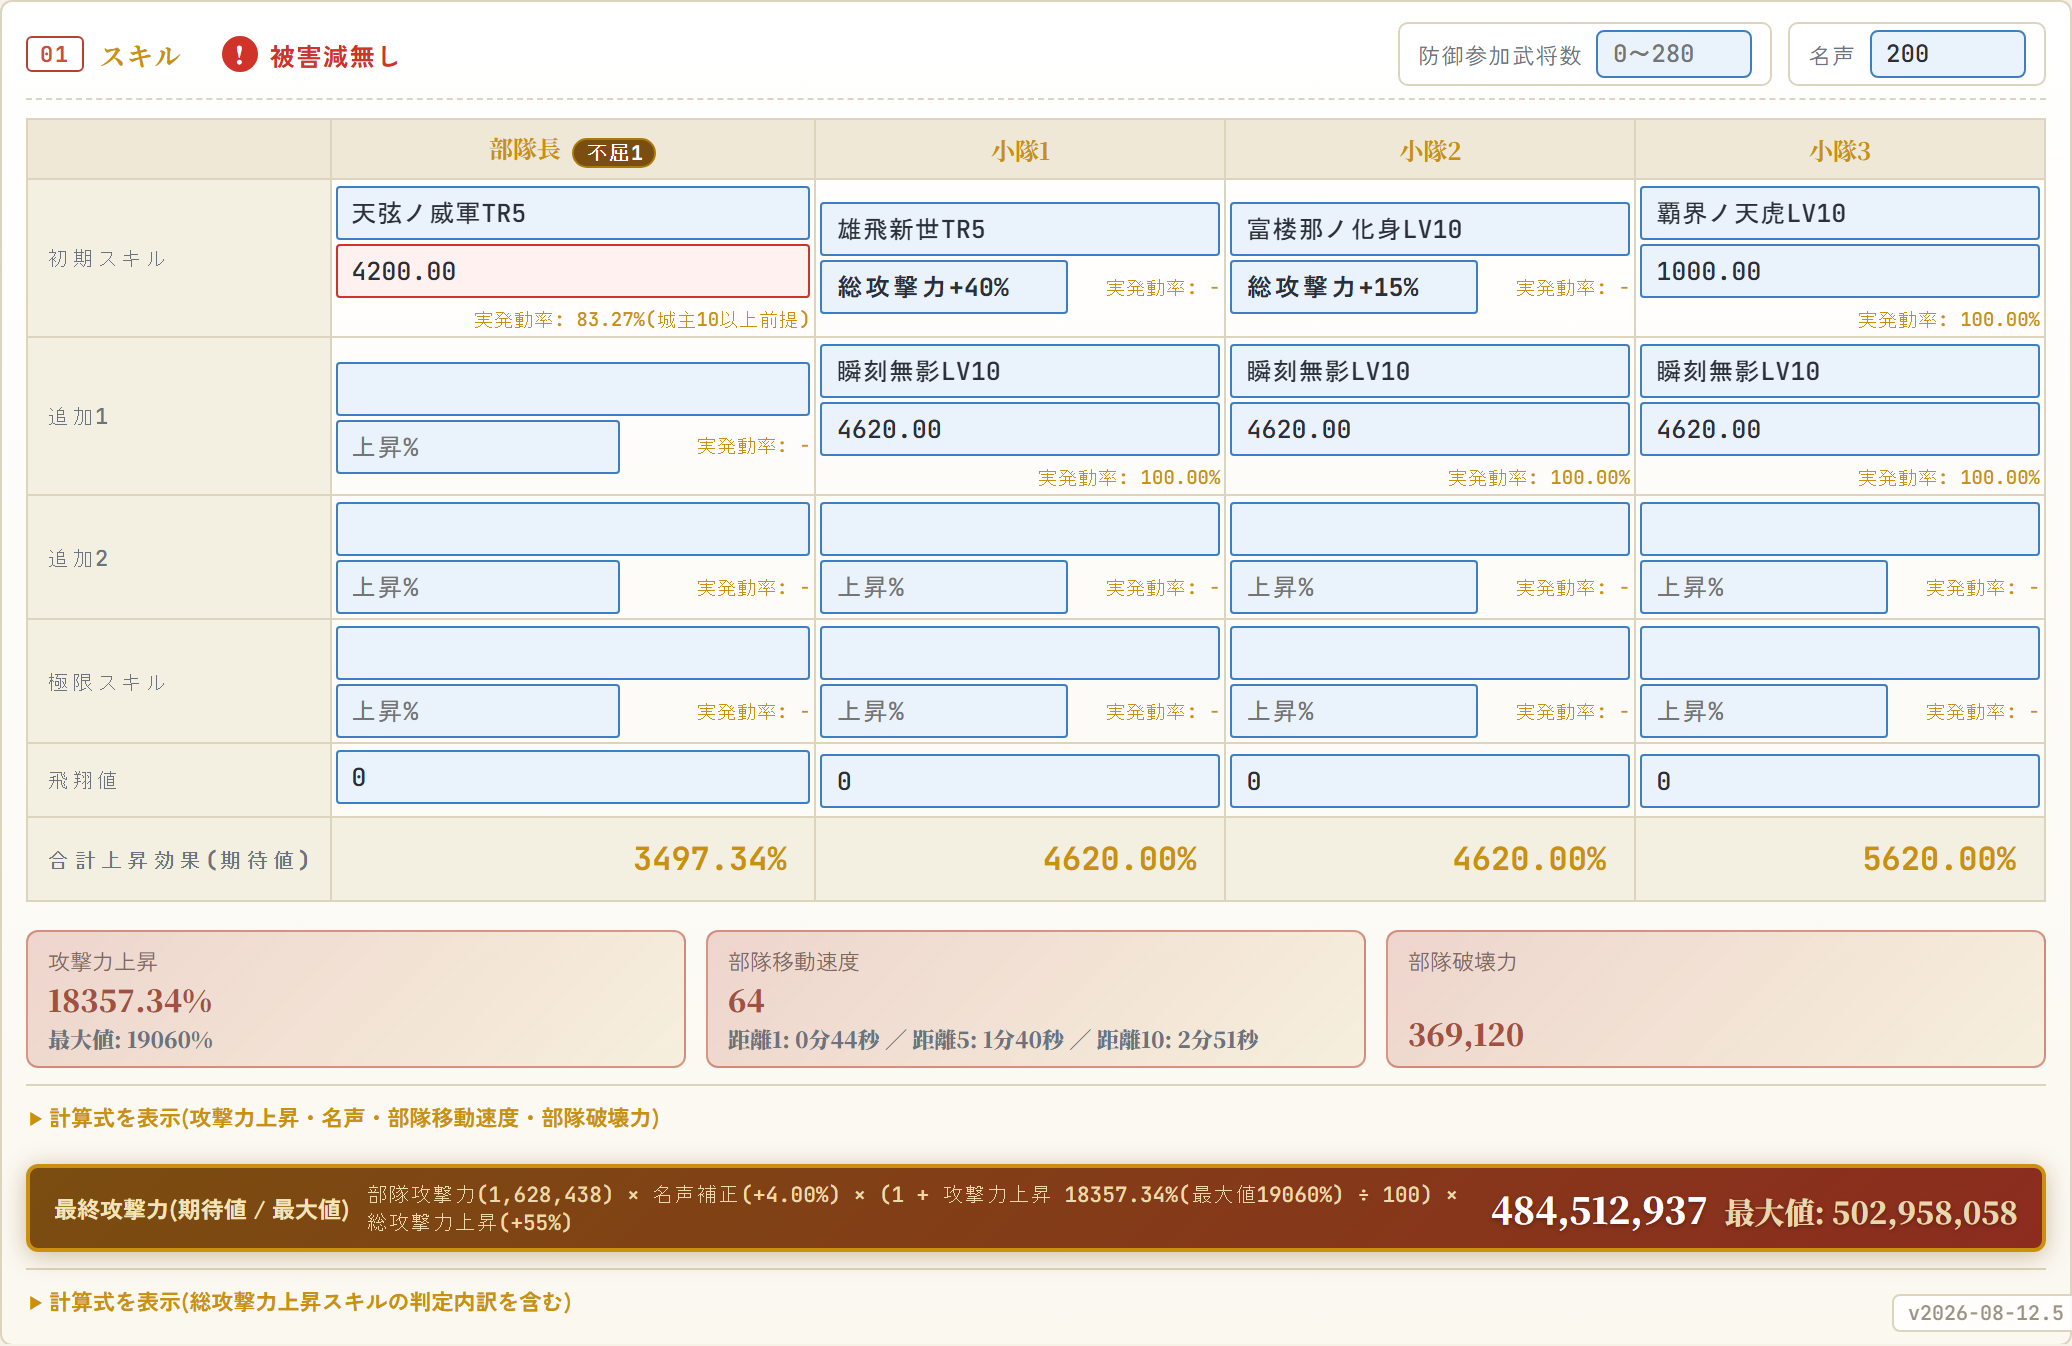
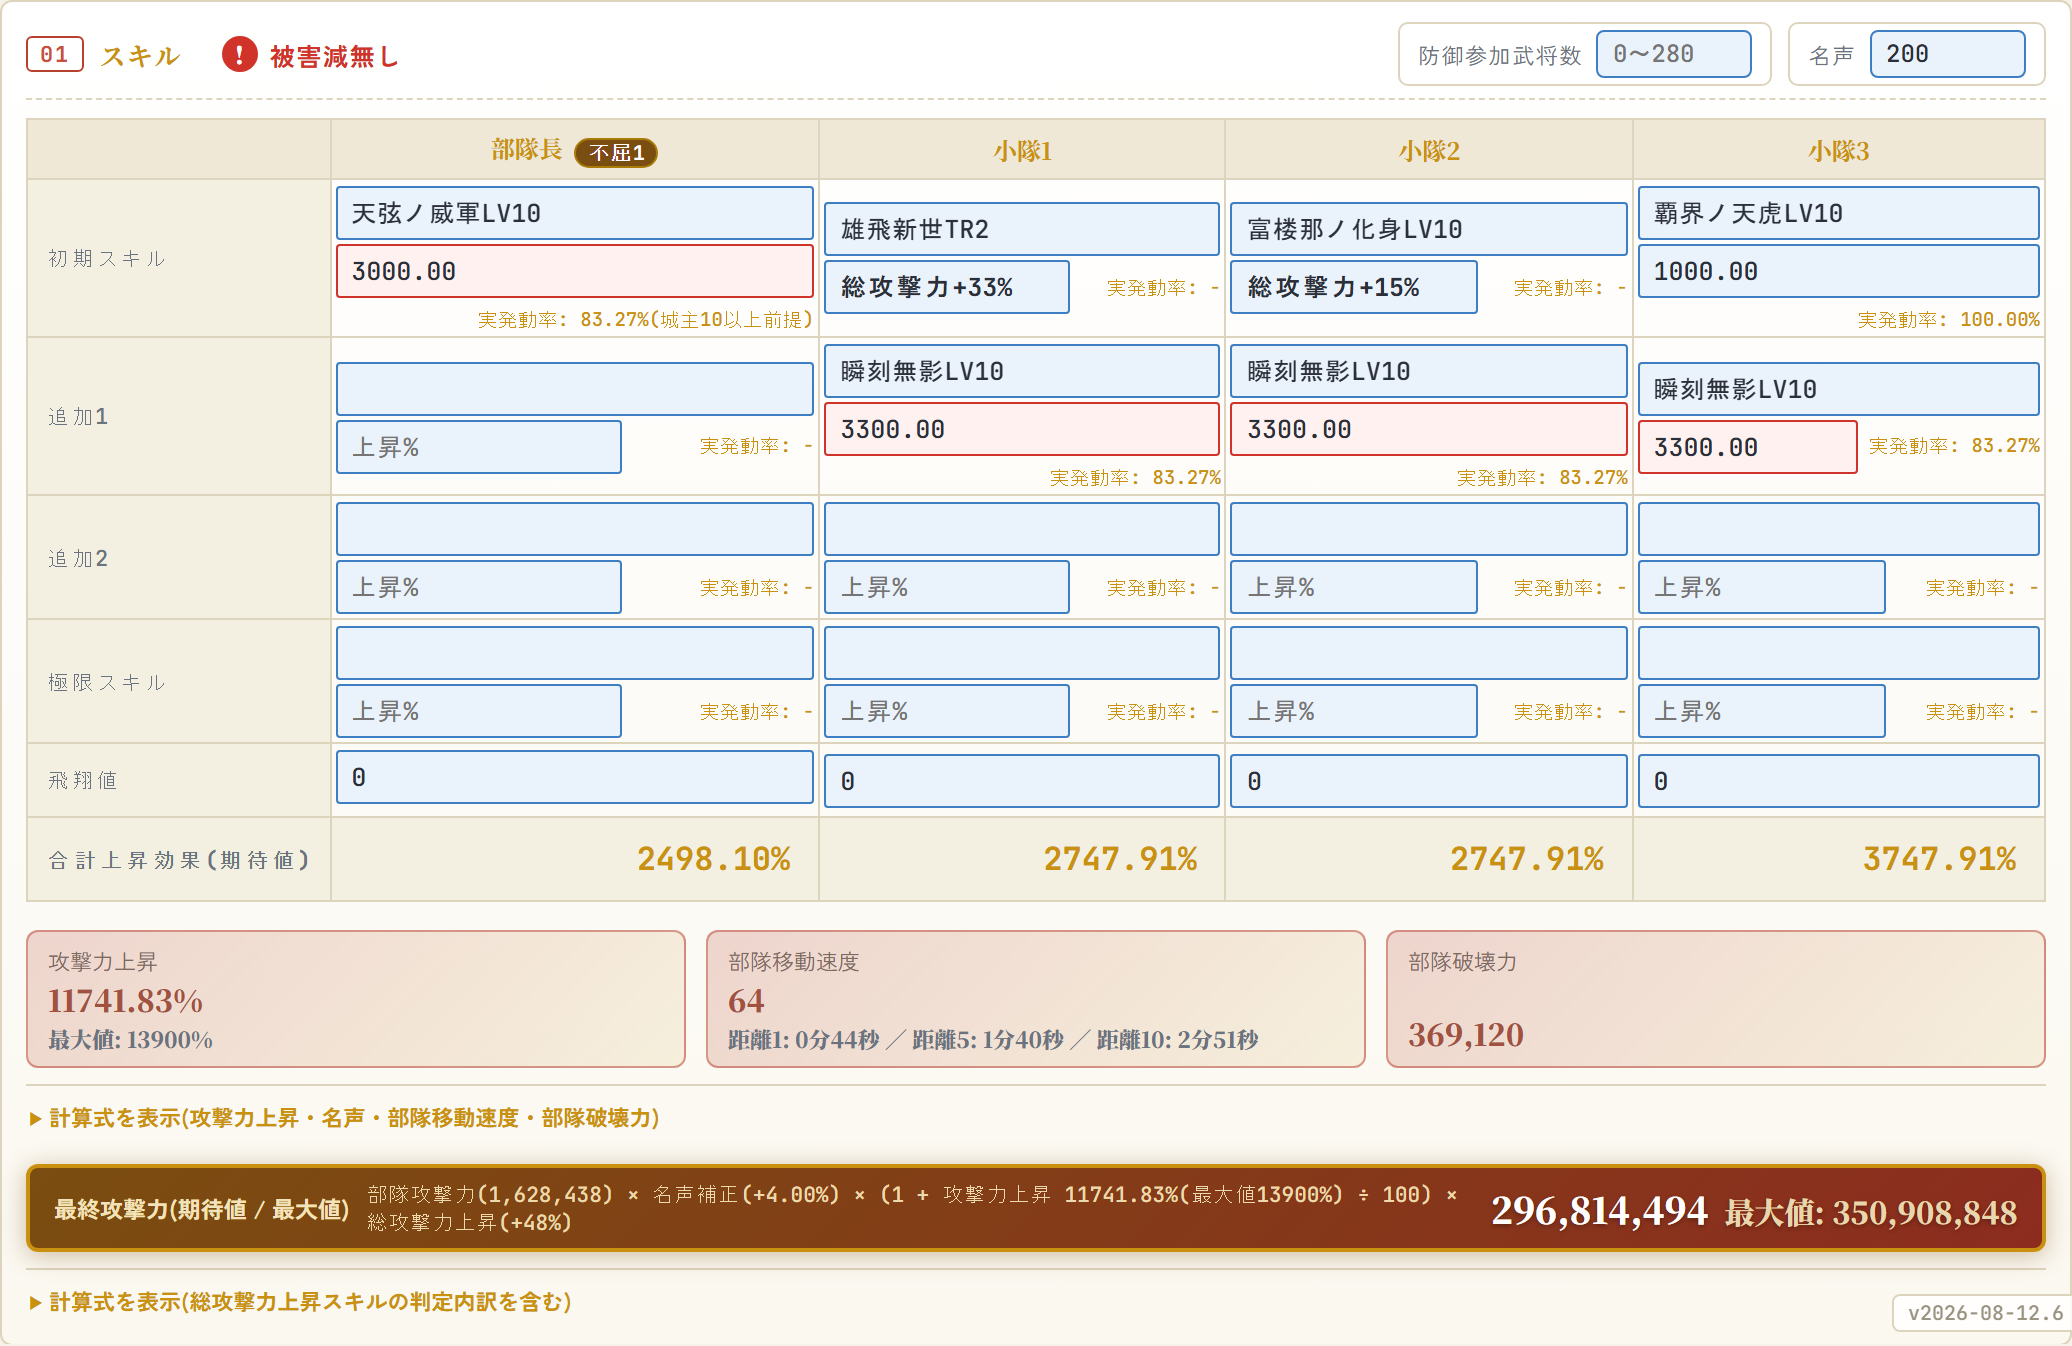
瞬刻無影の発動率を100%→45%に修正 (v2026-08-12.6)
ixa-data.jsのbaseRateに速度側の確率100%を入れてしまっており、模倣の
発動率まで100%として計算されていた(ユーザー指摘)。このスキルは効果ごとに
確率が別で、模倣が45%・速度上昇が100%。

3ソース一致で確認:
・ixanary.com/skills/瞬刻無影 → LV10「確率+45%/対象 部隊長」「確率+100%/対象 全 速度100%上昇」
・skills.htmlのeffectSummary → ①確率45%で模倣 ②確率100%で速度100%上昇
・ixa-data.js自身のnote本文 → LV10(部隊長対象)+45%・(全体対象)+100%
同型の刹那無影は模倣側の55をbaseRateにしており、そちらが正しい形。
速度はcomputeSquadSpeedValueが確率を掛けず合算する仕様のため影響なし。

skills.htmlのbaseRateも100→45に修正。一覧(skills-leadermimic.html)は
元から45%と出ており、詳細ページの見出しだけが「確率+100%」だった。
模倣スキル41件のbaseRateとnote本文の確率を突き合わせ、他に不一致は無し。

使い方記事も追随:
・天弦ノ威軍をLV10、雄飛新世をTR2に変更して撮り直し
・模倣が45%になったことで赤枠が4枠に増え、赤枠の説明が画像で確認できる
・模倣は模倣元の発動率を引き継がない点を追記
・数値更新(ステ振り比較 2億5698万→2億9681万、期待値2億9681万/最大3億5090万)
・版表記をv2026-08-12.6に(題名・8章・記事一覧のカード)

diff --git a/blog-attack-simulator-guide.html b/blog-attack-simulator-guide.html
@@ -5,7 +5,7 @@
 <meta name="viewport" content="width=device-width, initial-scale=1.0">
 <script async src="https://pagead2.googlesyndication.com/pagead/js/adsbygoogle.js?client=ca-pub-7334304987274613"
      crossorigin="anonymous"></script>
-<title>攻撃シミュレーターの使い方(v2026-08-12.5 時点)｜戦国IXA シミュレーター置き場</title>
+<title>攻撃シミュレーターの使い方(v2026-08-12.6 時点)｜戦国IXA シミュレーター置き場</title>
 <meta name="description" content="戦国IXAの攻撃/防御シミュレーターの使い方。兵士・武将名・スキルの3つを入れるだけで最終攻撃力が出ます。期待値と最大値の違い、赤枠と警告の意味も解説します。">
 <link rel="stylesheet" href="assets/css/site.css">
 <link rel="icon" href="favicon.ico" sizes="any">
@@ -36,7 +36,7 @@
 
   <main class="site-main article-page">
     <p class="article-meta"><a href="blog.html">記事一覧</a> ／ 2026年8月12日</p>
-    <h1 class="page-title">攻撃シミュレーターの使い方(v2026-08-12.5 時点)</h1>
+    <h1 class="page-title">攻撃シミュレーターの使い方(v2026-08-12.6 時点)</h1>
 
     <div class="content-block">
       <p><a href="attack-simulator.html">攻撃/防御シミュレーター</a>は、部隊長と小隊1〜3の計4名分を入力すると、最終攻撃力までを自動で出すツールです。<br>
@@ -70,7 +70,7 @@
         <img src="assets/img/blog/guide-07-tier.png" alt="スキル名を選んだあとに出るLV10・TR1〜TR5の段階選択" loading="lazy" decoding="async">
       </figure>
 
-      <p>選ぶとスキル欄が「天弦ノ威軍TR5」のように<strong>段階つきの表記</strong>になります。段階を持たないスキルはこの選択が出ず、名前だけが入ります。<br>
+      <p>選ぶとスキル欄が「雄飛新世TR2」「天弦ノ威軍LV10」のように<strong>段階つきの表記</strong>になります。段階を持たないスキルはこの選択が出ず、名前だけが入ります。<br>
       TR6が選べるのはパラレル天でのみ解禁される一部のスキルだけです。</p>
 
       <h3>条件を満たしたときだけ出るチェックボックス</h3>
@@ -103,7 +103,7 @@
       兵法値が500から2225まで伸びています。<br>
       この1人のステ振りを変えるだけで発動率ボーナスが<strong>+24.02%から+38.27%</strong>に上がります。
       本人の攻撃力は下がるので部隊攻撃力は減りますが、部隊全員のスキルが発動しやすくなるので、
-      この編成では最終攻撃力(期待値)も4億8048万から4億8451万に増えました。<br>
+      この編成では最終攻撃力(期待値)が2億5698万から2億9681万に増えました。<br>
       発動率ボーナスが効くのは<strong>発動率が100%に足りていないスキルだけ</strong>です。
       すでに100%のスキルしか入っていない部隊では、兵法振りにしても発動率の面では何も起きません。</p>
 
@@ -162,8 +162,8 @@
       </figure>
 
       <p>スキル名の下の数字が上昇%、その右下に出るのが<strong>実発動率</strong>です。実発動率は、スキル本来の発動率に発動率ボーナスを足した値(上限100%)です。<br>
-      この編成の発動率ボーナスは+38.27%なので、部隊長の天弦ノ威軍は本来の45%に足して83.27%になっています。瞬刻無影と覇界ノ天虎はもともと100%のスキルなので、足しても100%どまりです。<br>
-      小隊1〜3の追加1に入れた瞬刻無影は部隊長の初期スキルを模倣するスキルで、その4620%は模倣元(天弦ノ威軍TR5)の4200%を1.1倍した値です。</p>
+      この編成の発動率ボーナスは+38.27%です。部隊長の天弦ノ威軍と、追加1に入れた瞬刻無影はどちらも本来45%のスキルなので、足して83.27%になっています。覇界ノ天虎はもともと100%なので、足しても100%どまりです。<br>
+      瞬刻無影は部隊長の初期スキルを模倣するスキルで、その3300%は模倣元(天弦ノ威軍LV10)の3000%を1.1倍した値です。<strong>模倣した側は模倣元の発動率を引き継がず、模倣スキル自身の発動率で判定されます。</strong></p>
 
       <p><strong>上昇%の欄が赤枠になっているのは、その数字が満額では入らないという印です。</strong>条件は2つあり、どちらかに当たると赤くなります。</p>
 
@@ -172,13 +172,13 @@
         <li>卓越の抽選結果しだいで値が変わる(期待値と最大値がずれる)</li>
       </ol>
 
-      <p>上の画像で赤枠なのは部隊長の天弦ノ威軍だけです。実発動率が83.27%で、残りの16.73%は発動しないからです。<br>
-      瞬刻無影(4620%)と覇界ノ天虎(1000%)が青枠なのは、実発動率が100%で卓越も持たないので、書いてある数字がそのまま入るからです。<strong>赤枠を減らすことが、そのまま期待値を最大値に近づけることになります。</strong></p>
+      <p>上の画像だと天弦ノ威軍と瞬刻無影が赤枠です。実発動率が83.27%で、残りの16.73%は発動しないからです。<br>
+      覇界ノ天虎(1000%)だけが青枠なのは、実発動率が100%で卓越も持たないので、書いてある数字がそのまま入るからです。<strong>赤枠を減らすことが、そのまま期待値を最大値に近づけることになります。</strong></p>
 
       <h3>総攻撃力を上げるスキルは別扱い</h3>
 
-      <p>この編成には総攻撃力を上げるスキルが2つ入っています。小隊1の雄飛新世TR5が<strong>「総攻撃力+40%」</strong>、小隊2の富楼那ノ化身が<strong>「総攻撃力+15%」</strong>で、上昇%の欄が数字ではなくこの表示になります。<br>
-      このタイプは16枠の上昇%の合計には入らず、<strong>足し合わせてから最後に部隊全体へ掛け算されます</strong>。最終攻撃力の式の末尾に出ている「総攻撃力上昇(+55%)」がその合計です。だから小隊1・小隊2の「合計上昇効果」にはこの40%と15%は入っていません。<br>
+      <p>この編成には総攻撃力を上げるスキルが2つ入っています。小隊1の雄飛新世TR2が<strong>「総攻撃力+33%」</strong>、小隊2の富楼那ノ化身が<strong>「総攻撃力+15%」</strong>で、上昇%の欄が数字ではなくこの表示になります。<br>
+      このタイプは16枠の上昇%の合計には入らず、<strong>足し合わせてから最後に部隊全体へ掛け算されます</strong>。最終攻撃力の式の末尾に出ている「総攻撃力上昇(+48%)」がその合計です。だから小隊1・小隊2の「合計上昇効果」にはこの40%と15%は入っていません。<br>
       対象兵科を指揮している列がないと乗らないので、注意してください(雄飛新世は砲・器、富楼那ノ化身は槍・砲・器が対象なので、この編成では焙烙火矢で両方とも条件を満たしています)。</p>
 
       <div class="article-gap3"></div>
@@ -203,7 +203,7 @@
         </table>
       </div>
 
-      <p>上の例だと期待値4億8451万に対して最大値5億295万で、1844万ほど差があります。この差は「発動しない枠がある」分です。赤枠が部隊長の1枠だけなので、差もこの程度で収まっています。<br>
+      <p>上の例だと期待値2億9681万に対して最大値3億5090万で、5409万ほど差があります。この差は「発動しない枠がある」分です。<br>
       <strong>発動率100%かつ卓越なし(または卓越確率100%)のスキルだけで組んだときだけ、期待値と最大値が一致します。</strong></p>
 
       <p>どちらを見るべきかは目的によります。1発の上振れを狙うなら最大値、何回も攻撃したときの平均を知りたいなら期待値です。</p>
@@ -278,7 +278,7 @@
         <img src="assets/img/blog/guide-09-version.png" alt="画面右下に出るバージョン表示" loading="lazy" decoding="async">
       </figure>
 
-      <p>右下に小さく出ている「v2026-08-12.5」がシミュレーターの版です。<strong>更新した年月日と、その日の何回目の更新か</strong>を表しています。この例なら2026年8月12日の5回目です。</p>
+      <p>右下に小さく出ている「v2026-08-12.6」がシミュレーターの版です。<strong>更新した年月日と、その日の何回目の更新か</strong>を表しています。この例なら2026年8月12日の6回目です。</p>
 
       <p>数値がおかしいときにこの表示ごとスクリーンショットを撮ってもらえると、どの版で起きたことか分かるので原因を追いやすくなります。<br>
       修正したと書いてあるのに直っていない場合は、ブラウザが古いファイルを覚えていることがあります。バージョンが上がっていなければ再読み込み(Ctrl+F5)を試してください。</p>

diff --git a/assets/js/ixa-data.js b/assets/js/ixa-data.js
@@ -2088,9 +2088,15 @@ const specialSkills = {
           '【2026年7月修正】以前は参考データのみだったが、ユーザー指摘により全模倣スキルを点検し自動計算に対応した。'
   },
   '瞬刻無影': {
-    mimicsSquadLeaderInitialSkill: true, baseRate: 100,
+    // baseRateは「模倣」側の確率。このスキルは効果ごとに確率が別で、模倣が45%(LV10)、速度上昇が100%。
+    // 【2026-08-12修正】速度側の100%をbaseRateに入れてしまっており、模倣まで確率100%として
+    // 計算されていた(ユーザー指摘)。ixanaryのスキルページ・skills.htmlの登録内容・下のnote本文の
+    // いずれも「確率+45%/対象 部隊長」で一致しているため45に訂正。速度上昇は
+    // computeSquadSpeedValueが確率を掛けずに合算する仕様なので、この変更の影響を受けない
+    // (同型の刹那無影も模倣側の55をbaseRateにしている)。
+    mimicsSquadLeaderInitialSkill: true, baseRate: 45,
     mimicMultiplierTable: { base: 1.1 },
-    speedTrTable: { base: 100 }, // 速度:LV10=100%上昇(自身の固定効果。模倣とは別枠)
+    speedTrTable: { base: 100 }, // 速度:LV10=100%上昇(自身の固定効果。模倣とは別枠。確率100%)
     note: 'S(特)。確率:LV1(部隊長対象)+15%・(全体対象)+100%→LV10(部隊長対象)+45%・(全体対象)+100%/対象:部隊長+全。LV1は等倍、LV10は1.1倍にして模倣(自動反映)。「速度:LV1=30%上昇、LV10=100%上昇」(自動反映対応、speedTrTable経由)。鍛錬TR別数値は情報源に記載なし。' +
           '【2026年7月修正】速度上昇はこのスキル自身が持つ模倣とは別枠の固定効果のため、模倣が成立した場合に限らず常に反映されるようapplyMimicrySkillsに追加対応した(ユーザー指摘)。'
   },

diff --git a/blog.html b/blog.html
@@ -45,7 +45,7 @@
         <li class="article-card">
           <a class="article-card-link" href="blog-attack-simulator-guide.html">
             <div class="article-card-body">
-              <h2>攻撃シミュレーターの使い方(v2026-08-12.5 時点)</h2>
+              <h2>攻撃シミュレーターの使い方(v2026-08-12.6 時点)</h2>
               <div class="article-card-date">2026年8月12日</div>
               <p class="article-card-excerpt">攻撃/防御シミュレーターは、部隊長と小隊1〜3の計4名分を入力すると、最終攻撃力までを自動で出すツールです。入力欄が多く見えますが、実際に手で入れるのは3つだけで、残りは武将データベースから引いて埋まります。</p>
             </div>

diff --git a/attack-simulator.html b/attack-simulator.html
@@ -822,7 +822,7 @@
   // 【必須】attack-simulator.html を変更したコミットでは、必ずこの定数も一緒に更新すること。
   // 表示文言の変更・CSSの微調整であっても対象(ユーザーがスクショで版を判別できなくなるため)。
   // 更新忘れが繰り返し発生しているので、編集したらコミット前にここを見に来る。
-  const SIMULATOR_VERSION = 'v2026-08-12.5';
+  const SIMULATOR_VERSION = 'v2026-08-12.6';
   document.addEventListener('DOMContentLoaded', ()=>{
     const badge = document.getElementById('simVersionBadge');
     if(badge) badge.textContent = SIMULATOR_VERSION;

diff --git a/skills.html b/skills.html
@@ -2879,7 +2879,7 @@
       ]
     },
     {
-      name:"瞬刻無影", rank:"S", baseRate:100, target:"部隊長",
+      name:"瞬刻無影", rank:"S", baseRate:45, target:"部隊長",
       effectSummary:"S/LV10 対象:部隊長\n①確率45%で部隊長の初期スキルを1.1倍に強化して模倣する\n②確率100%で速度100%上昇する(TRなし)",
       categoryLinks:[
         {href:"skills-leadermimic.html", label:"部隊長模倣スキル一覧を見る"}
